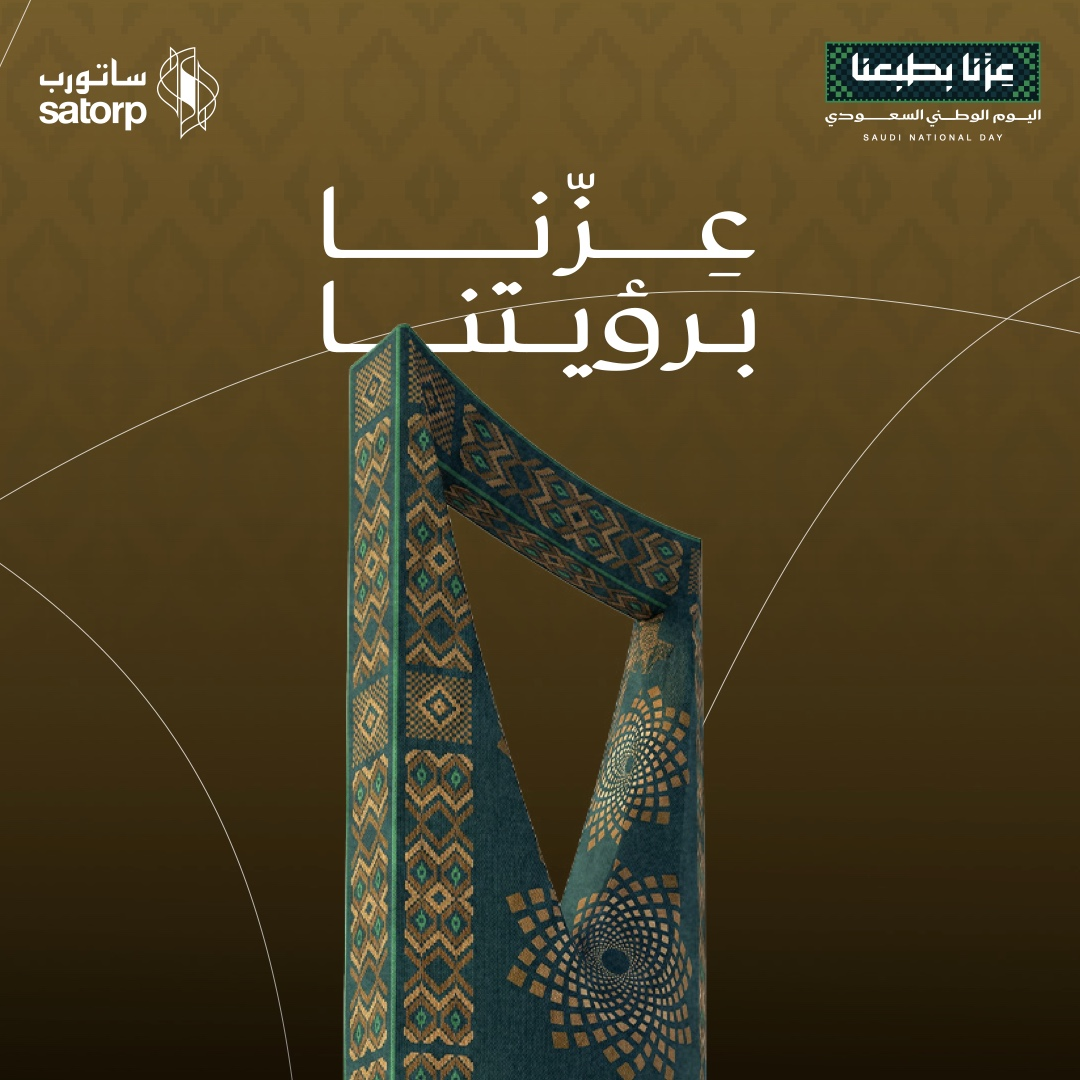
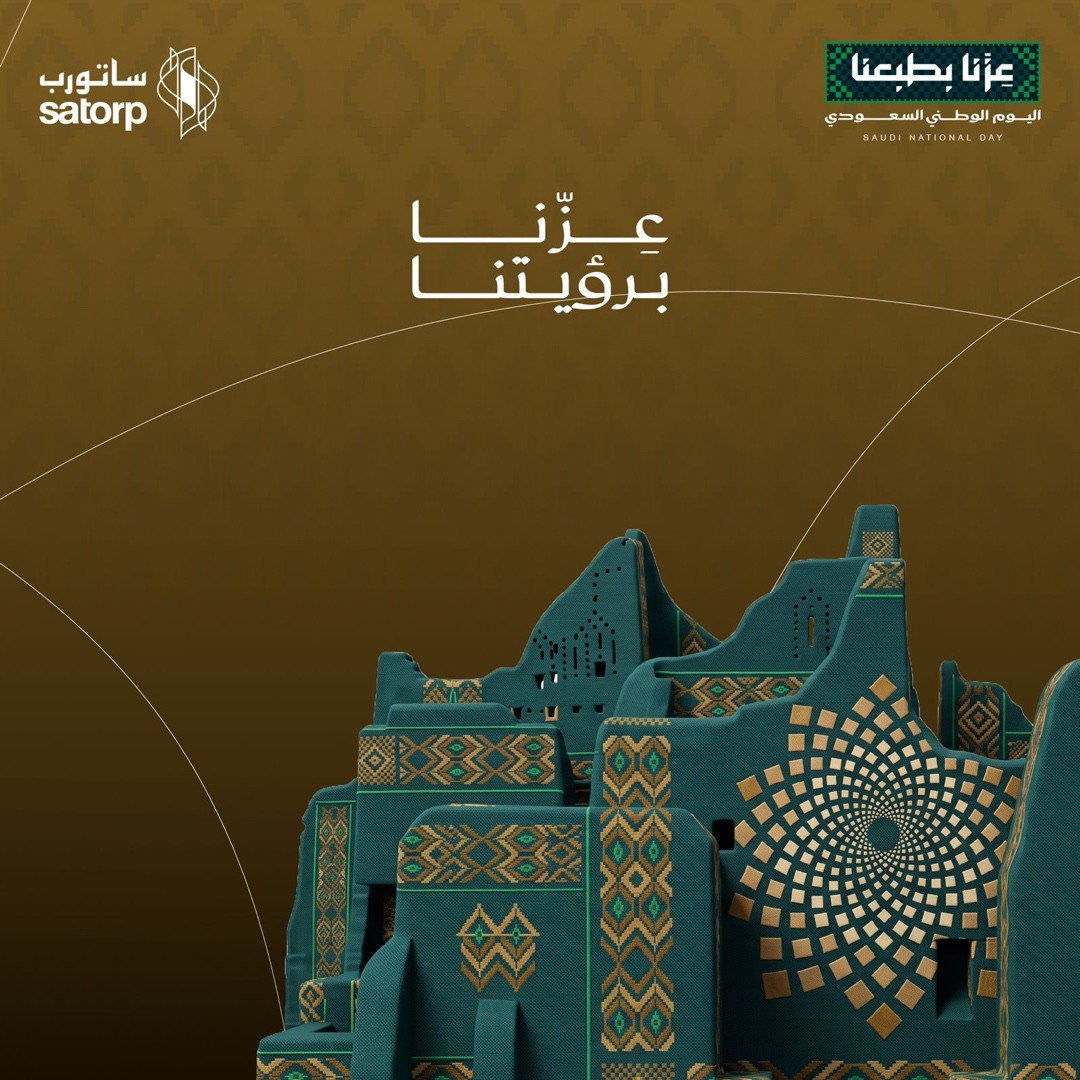
Replace cards 1 and 2 with the new SND artwork
Cards 1 and 2 are now the 'عزنا برؤيتنا' Diriyah design (gold) and
the 'عزنا بهمتنا' Masmak fort design (green), each taking the slot
of the old design in the same colour so the deck keeps its gold →
green → blue order. Card 3, the 'عزنا بكرمنا' blue design, is
unchanged. Source files were 1600×1600 and are downscaled to the
1080×1080 the rest of the deck and the canvas use.

Text anchors retuned to the clear band measured in each new piece
of artwork — 0.65 → 0.30 on card 1 and 0.37 → 0.34 on card 2 — so
the message and name sit between the headline and the artwork in
both languages, including the two-line English worst case. The new
images carry a ?v=3 query so cached copies refresh.

diff --git a/index.html b/index.html
@@ -31,10 +31,10 @@
             <p class="lang-select-desc lang-en">Create a special National Day greeting card and share it with your loved ones</p>
             <div class="card-deck" id="cardDeck" role="listbox" aria-label="Choose card design">
                 <div class="card-deck-item selected" data-card="1" role="option" aria-selected="true" tabindex="0">
-                    <img src="assets/images/National-Day-1.jpg" alt="National Day card design 1" />
+                    <img src="assets/images/National-Day-1.jpg?v=3" alt="National Day card design 1" />
                 </div>
                 <div class="card-deck-item" data-card="2" role="option" aria-selected="false" tabindex="0">
-                    <img src="assets/images/National-Day-2.jpg?v=2" alt="National Day card design 2" />
+                    <img src="assets/images/National-Day-2.jpg?v=3" alt="National Day card design 2" />
                 </div>
                 <div class="card-deck-item" data-card="3" role="option" aria-selected="false" tabindex="0">
                     <img src="assets/images/National-Day-3.jpg?v=2" alt="National Day card design 3" />

diff --git a/assets/js/config.js b/assets/js/config.js
@@ -20,14 +20,14 @@ var MESSAGES = {
  */
 var CARDS = {
   "1": {
-    image: "assets/images/National-Day-1.jpg",
+    image: "assets/images/National-Day-1.jpg?v=3",
     textColor: "#FFFFFF",
-    nameYRatio: 0.65
+    nameYRatio: 0.30
   },
   "2": {
-    image: "assets/images/National-Day-2.jpg?v=2",
+    image: "assets/images/National-Day-2.jpg?v=3",
     textColor: "#FFFFFF",
-    nameYRatio: 0.37
+    nameYRatio: 0.34
   },
   "3": {
     image: "assets/images/National-Day-3.jpg?v=2",

diff --git a/README.md b/README.md
@@ -20,9 +20,11 @@ styling), with National Day content.
 ## Artwork
 
 `assets/images/National-Day-1.jpg`, `-2.jpg`, `-3.jpg` are the three card
-designs (1080×1080 px). They are currently **the same design three times**
-(from the SND campaign "Social media Post"); drop in the real second and third
-designs by replacing the files — no code changes needed.
+designs (1080×1080 px), from the SND campaign "Social media Post":
+عزّنا برؤيتنا (gold), عزّنا بهمّتنا (green), and عزّنا بكرمنا (blue).
+To swap a design, replace the file and bump its `?v=` in `config.js` and
+`index.html`; if the new artwork's open space sits elsewhere, adjust that
+card's `nameYRatio` so the message and name stay clear of the artwork.
 
 ## Running locally
 
